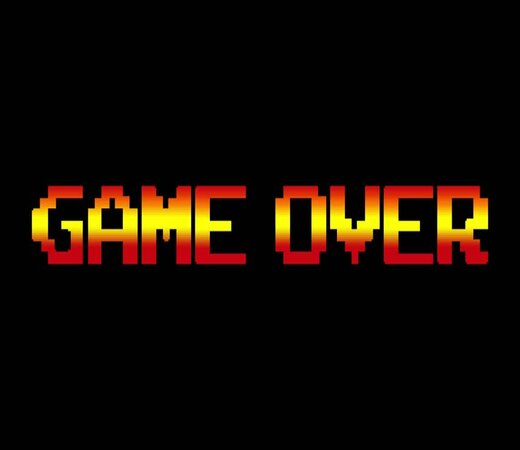
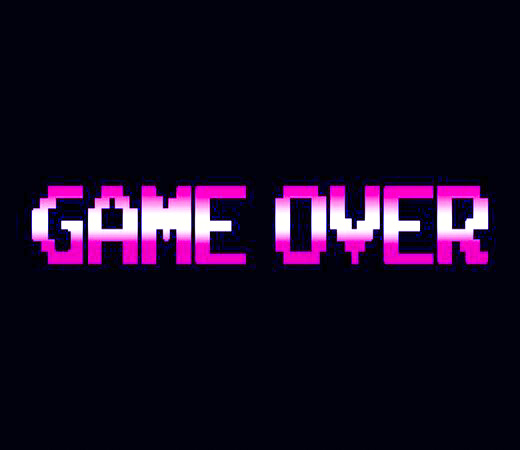
included team details, resized health array, and incorporated gameover screen

Changed region(s): [[0.5231, 0.3733, 0.9538, 0.6222], [0.0308, 0.3733, 0.4923, 0.6222]]

diff --git a/src/Main.cpp b/src/Main.cpp
@@ -1,7 +1,7 @@
 // CGMT Project: Araknoid Game
 //Team: -
-//Rishik, S.No. 10, Enrollment No. 12315002720, CSE 3
-//Samarth Gupta, S.No. 16, Enrollment No. 12315002720, CSE 3
+//Rishik Gupta, S.No. 10, Enrollment No. 11615002720, CSE 3
+//Samarth Gupta, S.No. 16, Enrollment No. 12215002720, CSE 3
 //Tanishk Saxena, S.No. 30, Enrollment No. 13615002720, CSE 3
 
 #include <SFML/Audio.hpp>
@@ -25,7 +25,7 @@ reset: //reset label to reset the game
 	RenderWindow app(VideoMode(520, 470), "Arkanoid!"); //creates app and within it creates video mode window
 	app.setFramerateLimit(60);							//sets fps using sleep function of sf namespace, which is dependent on OS
 
-	Texture t1, t2, t3, t4, t5, t6, t7, t8, t9; //images to be used, live on graphics card
+	Texture t1, t2, t3, t4, t5, t6, t7, t8, t9, t10; //images to be used, live on graphics card
 	t1.loadFromFile("images/block01.png");
 	t2.loadFromFile("images/block02.png");
 	t3.loadFromFile("images/block03.png");
@@ -35,10 +35,11 @@ reset: //reset label to reset the game
 	t7.loadFromFile("images/ball.png");
 	t8.loadFromFile("images/paddle.png");
 	t9.loadFromFile("images/heart.png");
+	t10.loadFromFile("images/gameOver.jpg");
 
-	Sprite sBackground(t6), sBall(t7), sPaddle(t8); //textures are applied to these, these are game objects
-	sPaddle.setPosition(211, 460);					//set paddle position
-	Sprite healthbar[11];							//health bar at the top
+	Sprite sBackground(t6), sBall(t7), sPaddle(t8), sGameOver(t10); //textures are applied to these, these are game objects
+	sPaddle.setPosition(211, 460);									//set paddle position
+	Sprite healthbar[5];											//health bar at the top
 
 	Sprite block1[200], block2[200], block3[200], block4[200], block5[200]; //array of blocks (200 can be ignored as array declaration needs a number)
 
@@ -337,13 +338,18 @@ reset: //reset label to reset the game
 
 		if (life < 1 || score == 700)
 		{
-			break; //breaks out of the while loop
+			app.clear();
+			app.draw(sGameOver);
+			app.display();
+			char retry;								  //retry variable
+			printf("Do you wanna go again? (y/n)  "); //asking for a re-run
+			scanf("%c", &retry);
+			if (retry == 'y')
+				goto reset; //follows the label of reset if asked to retry, otherwise returns.
+			else
+				break; //breaks out of the while loop
 		}
 	}
-	char retry;								  //retry variable
-	printf("Do you wanna go again? (y/n)  "); //asking for a re-run
-	scanf("%c", &retry);
-	if (retry == 'y')
-		goto reset; //follows the label of reset if asked to retry, otherwise returns.
+
 	return 0;
 }
